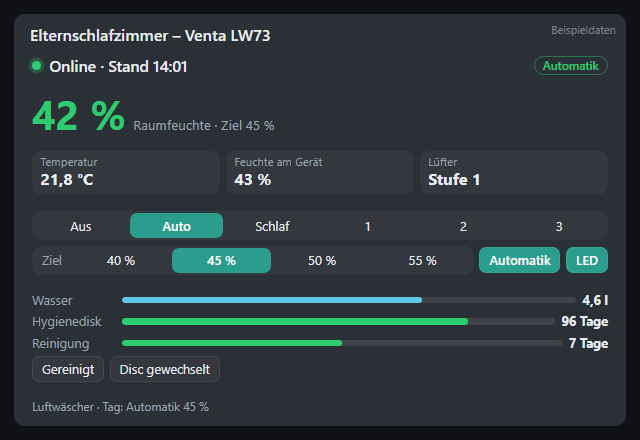
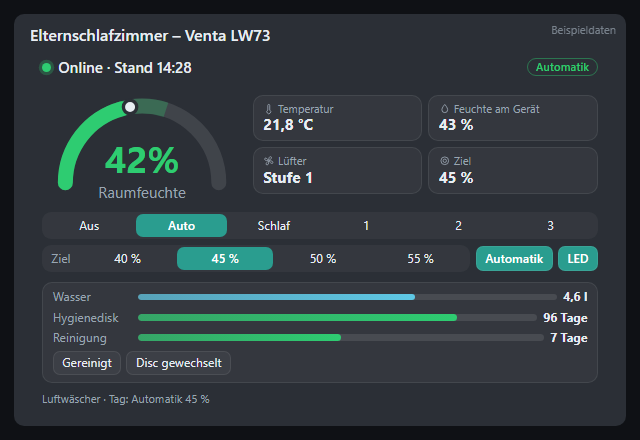
Version 1.4: Kacheln grafisch ueberarbeitet (Feuchte-Bogen, Werte-Raster, Wartungsblock, Feuchte-Leisten)

diff --git a/VentaHumidifier/tile.html b/VentaHumidifier/tile.html
@@ -12,15 +12,21 @@ html,body{margin:0!important;height:100%;background:transparent;overflow:hidden}
 /* all sizes in em: the font grows with the tile */
 .vt{height:100%;container-type:size;color:var(--fg);font-family:"Segoe UI",Roboto,Arial,sans-serif}
 /* top space for the tile title of the visualization; content spreads over the full height */
-.in{height:100%;display:flex;flex-direction:column;justify-content:space-between;gap:.3em;padding:42px 4px 2px;font-size:clamp(11px,min(3cqw,3.9cqh),20px);line-height:1.25;overflow:hidden}
+.in{height:100%;display:flex;flex-direction:column;justify-content:space-between;gap:.45em;padding:44px 14px 10px;font-size:clamp(11px,min(2.9cqw,3.7cqh),19px);line-height:1.25;overflow:hidden}
+.top{display:grid;grid-template-columns:minmax(7em,36%) 1fr;gap:.7em;align-items:center}
+.gg svg{width:100%;display:block;overflow:visible}
+.gt,.gb,.gv{fill:none;stroke-width:9;stroke-linecap:round}.gt{stroke:var(--track)}.gb{stroke:color-mix(in srgb,var(--ok) 28%,transparent);stroke-linecap:butt}
+.gv{transition:stroke-dasharray .6s}.gm{fill:var(--fg);stroke:var(--card,#2b2f36);stroke-width:2}
+.gn{font:700 22px "Segoe UI",Arial;text-anchor:middle}.gl{font:9px "Segoe UI",Arial;fill:var(--sub);text-anchor:middle}
+.mi span svg{width:1.05em;height:1.05em;vertical-align:-.18em;margin-right:.3em;fill:none;stroke:var(--sub);stroke-width:1.8;stroke-linecap:round;stroke-linejoin:round}
 .hd{display:flex;align-items:center;gap:.5em;font-weight:600}
 .hd i{width:.6em;height:.6em;border-radius:50%;background:var(--c);flex:none;box-shadow:0 0 0 .22em color-mix(in srgb,var(--c) 25%,transparent)}
 .hd span{white-space:nowrap;overflow:hidden;text-overflow:ellipsis}
 .hd em{margin-left:auto;font-style:normal;font-size:.75em;color:var(--c);border:1px solid color-mix(in srgb,var(--c) 45%,transparent);border-radius:1em;padding:.1em .7em;white-space:nowrap}
 .big{display:flex;align-items:baseline;gap:.5em}.big b{font-size:2.6em;font-weight:700;line-height:1;color:var(--h)}.big span{color:var(--sub);font-size:.85em}
 .mi div,.sg,button{border-radius:9px}
-.mi{display:grid;grid-template-columns:repeat(auto-fit,minmax(5.5em,1fr));gap:.35em}
-.mi div{display:flex;flex-direction:column;background:var(--box);border-radius:8px;padding:.3em .55em;min-width:0}
+.mi{display:grid;grid-template-columns:1fr 1fr;gap:.4em}
+.mi div{display:flex;flex-direction:column;background:var(--box);border:1px solid var(--line);border-radius:10px;padding:.4em .65em;min-width:0}
 .mi span{color:var(--sub);font-size:max(11px,.72em);white-space:nowrap}.mi b{font-size:1.02em;white-space:nowrap;overflow:hidden;text-overflow:ellipsis}
 .ct{display:flex;flex-wrap:wrap;gap:.35em;align-items:center}
 .sg{display:flex;flex:1 1 100%;background:var(--box);border-radius:9px;padding:2px;gap:2px}.sg.zg{flex:1 1 auto}
@@ -31,7 +37,8 @@ button.on{background:var(--acc);color:#fff;font-weight:600}button.ask{color:var(
 .lb{color:var(--sub);font-size:.82em;padding:.35em .6em;flex:none}
 .dis{opacity:.4;pointer-events:none}
 .bar{display:grid;grid-template-columns:6.5em 1fr auto;align-items:center;gap:.5em;font-size:.82em}.bar span{color:var(--sub)}
-.tr{height:.5em;border-radius:.25em;background:var(--track);overflow:hidden}.tr i{display:block;height:100%;border-radius:.25em;background:var(--c)}
+.tr{height:.55em;border-radius:.3em;background:var(--track);overflow:hidden}.tr i{display:block;height:100%;border-radius:.3em;background:linear-gradient(90deg,color-mix(in srgb,var(--c) 70%,transparent),var(--c))}
+.mt{background:var(--box);border:1px solid var(--line);border-radius:10px;padding:.45em .65em}
 .gr{font-size:max(11px,.75em);color:var(--sub);white-space:nowrap;overflow:hidden;text-overflow:ellipsis}
 .mt{display:flex;flex-direction:column;gap:.35em}
 </style>
@@ -50,6 +57,29 @@ const time = ts => { const x = new Date(ts * 1000); return x.toLocaleTimeString(
 const date = ts => { const x = new Date(ts * 1000); return x.toLocaleDateString() + ' ' + time(ts); };
 const btn = (attrs, text, on) => '<button ' + attrs + (on ? ' class="on"' : '') + '>' + esc(text) + '</button>';
 
+const ICON = {
+  temp: '<svg viewBox="0 0 24 24"><path d="M14 14.8V5a2 2 0 0 0-4 0v9.8a4 4 0 1 0 4 0z"/></svg>',
+  drop: '<svg viewBox="0 0 24 24"><path d="M12 3s6 6.5 6 11a6 6 0 0 1-12 0c0-4.5 6-11 6-11z"/></svg>',
+  fan: '<svg viewBox="0 0 24 24"><circle cx="12" cy="12" r="1.8"/><path d="M12 10.2C12 6 13 3.5 15.5 3.5S19 6 15 9.5M13.8 12c4.2 0 6.7 1 6.7 3.5S18 19 14.5 15M12 13.8c0 4.2-1 6.7-3.5 6.7S5 18 9 14.5M10.2 12C6 12 3.5 11 3.5 8.5S6 5 9.5 9"/></svg>',
+  dust: '<svg viewBox="0 0 24 24"><circle cx="7" cy="8" r="1.5"/><circle cx="15" cy="6" r="1.2"/><circle cx="12" cy="13" r="1.8"/><circle cx="18" cy="15" r="1.4"/><circle cx="7" cy="17" r="1.2"/></svg>',
+  target: '<svg viewBox="0 0 24 24"><circle cx="12" cy="12" r="8"/><circle cx="12" cy="12" r="3.5"/></svg>'
+};
+
+/** Semicircle 0–100 %: track, comfort band 40–60 %, value arc, target marker, value in the middle. */
+function gauge(value, target, color) {
+  const R = 46, C = Math.PI * R;
+  const pt = p => { const a = Math.PI * (1 - p / 100); return [60 + R * Math.cos(a), 58 - R * Math.sin(a)]; };
+  const arc = 'M14 58 A46 46 0 0 1 106 58';
+  const v = value === null || value === undefined ? 0 : Math.max(0, Math.min(100, value));
+  let s = '<svg viewBox="0 0 120 70"><path d="' + arc + '" class="gt"/>'
+    + '<path d="' + arc + '" class="gb" stroke-dasharray="0 ' + (C * 0.4) + ' ' + (C * 0.2) + ' ' + C + '"/>'
+    + '<path d="' + arc + '" class="gv" style="stroke:' + color + '" stroke-dasharray="' + (C * v / 100) + ' ' + C + '"/>';
+  if (target) { const [x, y] = pt(target); s += '<circle cx="' + x.toFixed(1) + '" cy="' + y.toFixed(1) + '" r="4" class="gm"/>'; }
+  s += '<text x="60" y="52" class="gn" style="fill:' + color + '">' + (value === null || value === undefined ? '–' : Math.round(value) + '%') + '</text>'
+    + '<text x="60" y="67" class="gl">' + esc(T('Room humidity')) + '</text></svg>';
+  return s;
+}
+
 function bar(title, share, color, text) {
   const p = Math.max(0, Math.min(100, Math.round(share * 100)));
   return '<div class="bar" style="--c:' + color + '"><span>' + esc(title) + '</span><div class="tr"><i style="width:' + p + '%"></i></div><b>' + esc(text) + '</b></div>';
@@ -63,11 +93,14 @@ function render() {
   const hc = room === null ? 'var(--grey)' : (room < 35 ? 'var(--warn)' : (room > 60 ? 'var(--bad)' : 'var(--ok)'));
   let h = '<div class="hd" style="--c:' + color + '"><i></i><span>' + esc(on ? T('Online') + ' · ' + T('Updated') + ' ' + time(D.last) : T('Offline'))
     + '</span><em>' + esc(D.status || T('Offline')) + '</em></div>';
-  h += '<div class="big" style="--h:' + hc + '"><b>' + num(room, 0, ' %') + '</b><span>' + esc(T('Room humidity')) + (on ? ' · ' + esc(T('Target')) + ' ' + D.target + ' %' : '') + '</span></div>';
-  h += '<div class="mi"><div><span>' + esc(T('Temperature')) + '</span><b>' + (on ? num(D.temperature, 1, ' °C') : '–') + '</b></div>'
-    + '<div><span>' + esc(T('Humidity at the device')) + '</span><b>' + (on ? num(D.device, 0, ' %') : '–') + '</b></div>'
-    + '<div><span>' + esc(T('Fan')) + '</span><b>' + (on && D.mode > 0 && D.fan !== null ? esc(T('Level')) + ' ' + D.fan : '–') + '</b></div>'
-    + (D.dust !== null && D.dust !== undefined ? '<div><span>' + esc(T('PM2.5')) + '</span><b>' + (on ? D.dust + ' µg/m³' : '–') + '</b></div>' : '') + '</div>';
+  // humidity gauge (semicircle 0–100 %, comfort band 40–60 %, target marker) + values
+  const mini = (icon, label, value) => '<div><span>' + ICON[icon] + esc(label) + '</span><b>' + value + '</b></div>';
+  h += '<div class="top"><div class="gg">' + gauge(room, on ? D.target : null, hc) + '</div><div class="mi">'
+    + mini('temp', T('Temperature'), on ? num(D.temperature, 1, ' °C') : '–')
+    + mini('drop', T('Humidity at the device'), on ? num(D.device, 0, ' %') : '–')
+    + mini('fan', T('Fan'), on && D.mode > 0 && D.fan !== null ? esc(T('Level')) + ' ' + D.fan : '–')
+    + (D.dust !== null && D.dust !== undefined ? mini('dust', T('PM2.5'), on ? D.dust + ' µg/m³' : '–') : mini('target', T('Target'), on ? D.target + ' %' : '–'))
+    + '</div></div>';
   // operation
   let sg = '';
   [[0, 'Off'], [1, 'Auto'], [2, 'Sleep'], [3, '1'], [4, '2'], [5, '3']].forEach(([m, t]) => { sg += btn('data-mode="' + m + '"', T(t), on && D.mode === m); });

diff --git a/VentaAutomation/tile.html b/VentaAutomation/tile.html
@@ -12,7 +12,7 @@ html,body{margin:0!important;height:100%;background:transparent;overflow:hidden}
 /* main tile: season on the left (or top), all devices on the right (or below); sizes in em grow with the tile */
 .vt{height:100%;container-type:size;color:var(--fg);font-family:"Segoe UI",Roboto,Arial,sans-serif}
 /* top space for the tile title of the visualization */
-.in{height:100%;display:grid;grid-template-columns:minmax(15em,30%) 1fr;gap:.9em;padding:42px 4px 2px;font-size:clamp(12px,min(1.5cqw,3.4cqh),19px);line-height:1.3;overflow:hidden}
+.in{height:100%;display:grid;grid-template-columns:minmax(15em,30%) 1fr;gap:.9em;padding:44px 14px 10px;font-size:clamp(12px,min(1.5cqw,3.4cqh),19px);line-height:1.3;overflow:hidden}
 /* narrow tiles: season on top, devices below, larger font */
 @container (max-width:1000px){.in{grid-template-columns:1fr;grid-template-rows:auto 1fr;overflow:auto;font-size:clamp(12px,min(2.3cqw,4cqh),17px)}.ck{display:grid;grid-template-columns:1fr 1fr;gap:.3em}}
 .col{display:flex;flex-direction:column;gap:.45em;min-height:0;min-width:0}
@@ -34,6 +34,10 @@ button.on{background:var(--acc);color:#fff;font-weight:600}button.ask{color:var(
 .sg button.on{background:var(--acc)}
 .cp{display:flex;flex-wrap:wrap;gap:.3em}.cp span{font-size:.72em;font-weight:600;color:var(--c);background:color-mix(in srgb,var(--c) 14%,transparent);border-radius:1em;padding:.1em .55em;white-space:nowrap}
 .dis{opacity:.45;pointer-events:none}
+.hb{position:relative;height:.45em;border-radius:.25em;background:var(--track);margin:.1em 0 .15em}
+.hb i{position:absolute;left:0;top:0;bottom:0;border-radius:.25em}.hb .cf{position:absolute;left:40%;width:20%;top:0;bottom:0;background:color-mix(in srgb,var(--ok) 22%,transparent)}
+.hb b{position:absolute;top:-.25em;width:.2em;height:.95em;margin-left:-.1em;border-radius:.1em;background:var(--fg)}
+.dv{background:linear-gradient(160deg,var(--box),transparent)}
 </style>
 </head>
 <body>
@@ -71,6 +75,9 @@ function device(d) {
   let h = '<div class="dn"><b>' + esc(d.name) + '</b><span>' + esc(d.kindText || '') + '</span></div>';
   h += '<div class="dh" style="--h:' + hc + '"><b>' + (hum === null ? '–' : hum + ' %') + '</b><span>' + esc(on ? (d.status || '') : T('Offline'))
     + (on && d.target > 0 ? ' · ' + esc(T('Target')) + ' ' + d.target + ' %' : '') + '</span></div>';
+  // humidity bar 0–100 % with comfort band 40–60 % and target marker
+  h += '<div class="hb"><span class="cf"></span><i style="width:' + (hum === null ? 0 : hum) + '%;background:' + hc + '"></i>'
+    + (on && d.target > 0 ? '<b style="left:' + d.target + '%"></b>' : '') + '</div>';
   const modes = d.dehum ? [[0, 'Off'], [1, 'On']] : [[0, 'Off'], [1, 'Auto'], [2, 'Sleep']];
   h += '<div class="sg' + (on ? '' : ' dis') + '">' + modes.map(([m, t]) => '<button data-id="' + d.id + '" data-mode="' + m + '"' + (on && d.mode === m ? ' class="on"' : '') + '>' + esc(T(t)) + '</button>').join('') + '</div>';
   const chips = [];

diff --git a/GenericDehumidifier/tile.html b/GenericDehumidifier/tile.html
@@ -10,7 +10,7 @@
 html,body{margin:0!important;height:100%;background:transparent;overflow:hidden}
 *{box-sizing:border-box}
 .vt{height:100%;container-type:size;color:var(--fg);font-family:"Segoe UI",Roboto,Arial,sans-serif}
-.in{height:100%;display:flex;flex-direction:column;justify-content:space-between;gap:.5em;padding:42px 4px 2px;font-size:clamp(12px,min(5cqw,8cqh),18px);line-height:1.25;overflow:hidden}
+.in{height:100%;display:flex;flex-direction:column;justify-content:space-between;gap:.5em;padding:44px 14px 10px;font-size:clamp(12px,min(5cqw,8cqh),18px);line-height:1.25;overflow:hidden}
 .hd{display:flex;align-items:center;gap:.5em;font-weight:600}
 .hd i{width:.6em;height:.6em;border-radius:50%;background:var(--c);flex:none}
 .hd em{margin-left:auto;font-style:normal;font-size:.75em;color:var(--c);border:1px solid color-mix(in srgb,var(--c) 45%,transparent);border-radius:1em;padding:.1em .7em}
@@ -18,6 +18,9 @@ html,body{margin:0!important;height:100%;background:transparent;overflow:hidden}
 .ct{display:flex;gap:.35em;flex-wrap:wrap}
 button{font:inherit;font-size:.85em;color:var(--fg);background:var(--box);border:1px solid var(--line);border-radius:7px;padding:.35em .9em;cursor:pointer}
 button.on{background:var(--acc);color:#fff;font-weight:600}
+.hb{position:relative;height:.45em;border-radius:.25em;background:var(--line)}
+.hb i{position:absolute;left:0;top:0;bottom:0;border-radius:.25em}.hb .cf{position:absolute;left:40%;width:20%;top:0;bottom:0;background:color-mix(in srgb,var(--ok) 22%,transparent)}
+.hb b{position:absolute;top:-.25em;width:.2em;height:.95em;margin-left:-.1em;border-radius:.1em;background:var(--fg)}
 .gr{margin-top:auto;font-size:max(11px,.75em);color:var(--sub);white-space:nowrap;overflow:hidden;text-overflow:ellipsis}
 </style>
 </head>
@@ -35,6 +38,12 @@ function render() {
   let h = '<div class="hd" style="--c:' + c + '"><i></i><span>' + esc(T('Dehumidifier')) + '</span><em>' + esc(D.status) + '</em></div>';
   h += '<div class="big"><b>' + (D.hasHumidity && D.humidity !== null ? Math.round(D.humidity) + ' %' : '–') + '</b><span>' + esc(T('Room humidity'))
     + (D.target > 0 ? ' · ' + esc(T('Target')) + ' ' + D.target + ' %' : '') + '</span></div>';
+  if (D.hasHumidity && D.humidity !== null) {
+    const hum = Math.max(0, Math.min(100, D.humidity));
+    const hc = D.target > 0 && hum > D.target ? 'var(--warn)' : 'var(--ok)';
+    h += '<div class="hb"><span class="cf"></span><i style="width:' + hum + '%;background:' + hc + '"></i>'
+      + (D.target > 0 ? '<b style="left:' + D.target + '%"></b>' : '') + '</div>';
+  }
   h += '<div class="ct"><button data-p="1"' + (D.on ? ' class="on"' : '') + '>' + esc(T('On')) + '</button><button data-p="0"' + (!D.on ? ' class="on"' : '') + '>'
     + esc(T('Off')) + '</button><button data-a="1"' + (D.auto ? ' class="on"' : '') + '>' + esc(T('Automation')) + '</button></div>';
   h += '<div class="gr">' + esc(D.reason) + '</div>';

diff --git a/README.md b/README.md
@@ -49,6 +49,7 @@ accept only one field per command (handled by the module).
 
 ## Changelog
 
+* 1.4 – redesigned tiles: humidity gauge with comfort band and target marker, value grid with icons, boxed maintenance block, humidity bars in the main and dehumidifier tile
 * 1.3 – tiles leave room for the tile title, spread over the full height; LED variable for v2 devices before the first contact
 * 1.2 – reset buttons and maintenance intervals as variables
 * 1.1 – main tile, Generic Dehumidifier, air purifiers, warnings in plain text
